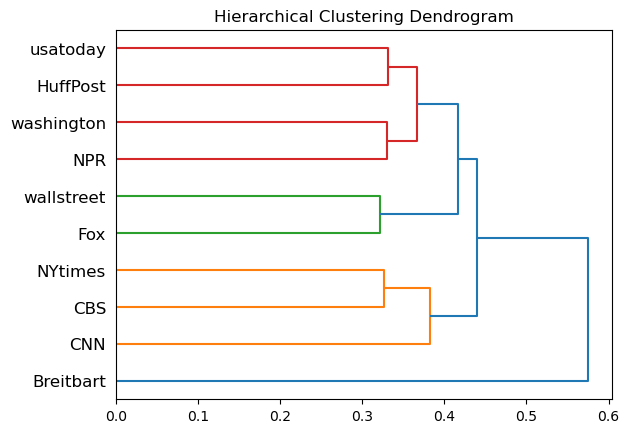
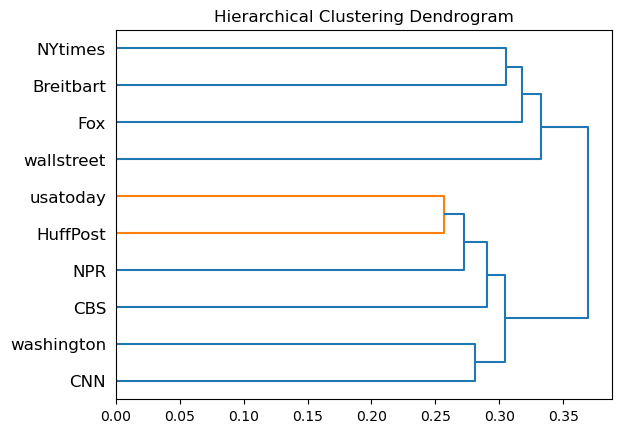
nothing

diff --git a/baseline.py b/baseline.py
@@ -60,14 +60,12 @@ def distance_calculate(cluster_list):
     distance_matrix = np.zeros((len(cluster_list)+1,len(cluster_list)+1))
 
     for cluster in cluster_list:
-        # if len(cluster) ==  len(cluster_list) + 1:
-        #     continue
+        if len(cluster) ==  len(cluster_list) + 1:
+            continue
         for i in cluster:
             for j in cluster:
                 if i != j:
                     distance_matrix[i][j] += 1
-    for i in range(len(cluster_list)+1):
-        distance_matrix[i] = distance_matrix[i] / np.sum(distance_matrix[i],axis=0)
     return distance_matrix
 
 def temp():
@@ -76,8 +74,6 @@ def temp():
 
     source_model = joblib.load(source_model)
     trust_model = joblib.load(trust_model)
-    score = adjusted_rand_score(source_model.labels_,trust_model.labels_)
-    print(score)
     source_cluster_list = cluster_generate(source_model)
     trust_cluser_list = cluster_generate(trust_model)
     source_distance = distance_calculate(source_cluster_list)
@@ -105,7 +101,7 @@ def build_baseline(data_type, label_type):
             print(k)
 
     analyzer = AgglomerativeClustering(
-        n_clusters=5, compute_distances=True, affinity='euclidean', linkage='complete')
+        n_clusters=5, compute_distances=True, affinity='cosine', linkage='complete')
     # analyzer = KMeans(n_clusters=3)
     cluster_result = dict()
     clusters = analyzer.fit(data)
@@ -125,12 +121,12 @@ def build_baseline(data_type, label_type):
     plt.savefig(plt_file, bbox_inches='tight')
     plt.close()
 
-    data = cosine_similarity(data)
-    data = pd.DataFrame(data,columns=label_list,index=label_list)
-    sns.heatmap(data)
-    plt_file = './analysis/baseline/baseline_'+data_type+'_heat.png'
-    plt.savefig(plt_file, bbox_inches='tight')
-    plt.close()
+    # data = cosine_similarity(data)
+    # data = pd.DataFrame(data,columns=label_list,index=label_list)
+    # sns.heatmap(data)
+    # plt_file = './analysis/baseline/baseline_'+data_type+'_heat.png'
+    # plt.savefig(plt_file, bbox_inches='tight')
+    # plt.close()
 
 
 

diff --git a/program/analysis.py b/program/analysis.py
@@ -125,7 +125,7 @@ class ClusterAnalysis(BaseAnalysis):
         elif cluster_method == "AgglomerativeClustering":
             # self._analyser =  AgglomerativeClustering(n_clusters=2, compute_distances=True)
             self._analyser = AgglomerativeClustering(
-                n_clusters=5, compute_distances=True, affinity='euclidean', linkage='complete')
+                n_clusters=5, compute_distances=True, affinity='cosine', linkage='complete')
         elif cluster_method == "DBSCAN":
             self._analyser = DBSCAN(eps=0.5, min_samples=2)
         elif cluster_method == "OPTICS":
@@ -565,8 +565,8 @@ class ClusterCompare(object):
         basic_distance_matrix = np.zeros((len(cluster_list)+1,len(cluster_list)+1))
 
         for cluster in cluster_list:
-            # if len(cluster) ==  len(cluster_list) + 1:
-            #     continue
+            if len(cluster) ==  len(cluster_list) + 1:
+                continue
             for i in cluster:
                 for j in cluster:
                     if i != j:
@@ -577,8 +577,8 @@ class ClusterCompare(object):
         #         distance_matrix[i] = distance_matrix[i] / temp
 
         for cluster in base_cluster_list:
-            # if len(cluster) ==  len(cluster_list) + 1:
-            #     continue
+            if len(cluster) ==  len(cluster_list) + 1:
+                continue
             for i in cluster:
                 for j in cluster:
                     if i != j:

diff --git a/program/run_function.py b/program/run_function.py
@@ -16,7 +16,7 @@ from .data import get_dataset, get_analysis_data, get_label_data, get_mask_score
 from .model import MLMModel, SentenceReplacementModel, NERModel, ClassifyModel
 from .config import BaselineArguments, DataArguments, DataAugArguments, FullArticleMap, MiscArgument, ModelArguments, TrainingArguments, AnalysisArguments, SourceMap, TrustMap, TwitterMap, ArticleMap, BaselineArticleMap
 from tqdm import tqdm
-from sklearn.metrics.pairwise import euclidean_distances
+from sklearn.metrics.pairwise import euclidean_distances, cosine_distances
 import numpy as np
 from matplotlib import pyplot as plt
 from os import path
@@ -592,7 +592,7 @@ def label_score_analysis(
                 encoded_b = analysis_data['media_average'][dataset_name_b]
                 for k in range(len(encoded_a)):
                     if k in analysis_result and (analysis_result[k] < analysis_args.analysis_threshold or analysis_args.analysis_threshold == -1):
-                        average_distance += euclidean_distances(
+                        average_distance += cosine_distances(
                             encoded_a[k].reshape(1, -1), encoded_b[k].reshape(1, -1))[0][0]
                 average_distance_matrix[i][j] = average_distance / \
                     len(encoded_a)
